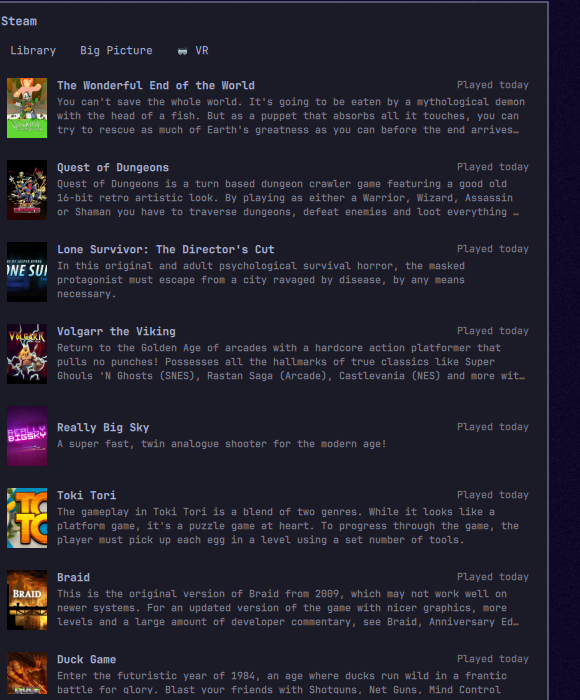
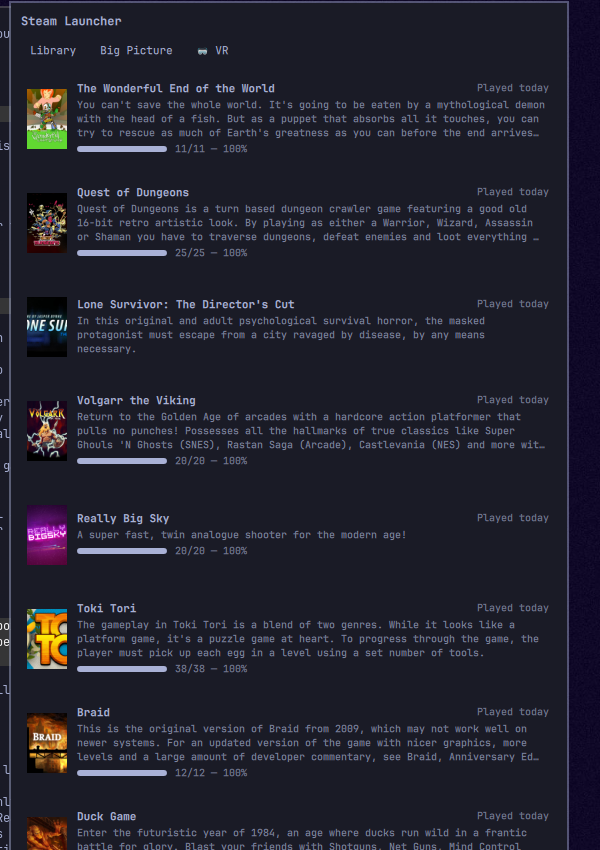
Add achievement progress, rename popup title to Steam Launcher
Achievement counts/percentage are read from Steam's own local binary
stat cache (appcache/stats/UserGameStats*.bin + UserGameStatsSchema*.bin),
not the Web API -- no API key or public-profile requirement. New
dependency-free scripts/steam-achievements.py decodes the undocumented
binary KeyValues format and intersects unlock timestamps against each
group's *current* schema bit ids, since a game's achievement list can
shrink over time while old unlock records for removed ids linger (hit
this for real on Aqua Kitty, appid 263880).

Also fixes a redundant full-Repeater-rerender bug this introduced during
testing: batching all achievement updates into one steamGames
reassignment instead of one setSteamGameField call per field per game.

Changed region(s): [[0.0, 0.0, 0.9621, 1.0]]

diff --git a/BarWidget.qml b/BarWidget.qml
@@ -198,6 +198,9 @@ BarWidget {
         lastPlayed: 0,
         description: "",
         descriptionLoaded: false,
+        achievementsUnlocked: 0,
+        achievementsTotal: 0,
+        achievementsLoaded: false,
         boxArt: "https://cdn.akamai.steamstatic.com/steam/apps/" + appid + "/library_600x900.jpg",
         boxArtFallback: "https://cdn.akamai.steamstatic.com/steam/apps/" + appid + "/header.jpg"
       })
@@ -239,6 +242,53 @@ BarWidget {
     root.steamGamesLoading = false
     root.steamGamesLoaded = true
     for (var g = 0; g < games.length; g++) fetchSteamDescription(games[g].appid)
+    loadSteamAchievements()
+  }
+
+  function loadSteamAchievements() {
+    steamAchievementsProc.command = ["python3", Quickshell.env("HOME") + "/.config/omarchy/plugins/io.github.alanone.steam-launcher/scripts/steam-achievements.py"]
+    steamAchievementsProc.running = true
+  }
+
+  // One combined local read (Steam's own binary achievement-stat cache, no
+  // network) rather than one process per game -- unlike descriptions, this
+  // has no reason to be cached across popup opens: it's already as cheap as
+  // the games-list/last-played rescans that already happen on every open.
+  // Games with no line in the output (no local stats file yet, or zero
+  // ACHIEVEMENTS-type stats) are left with achievementsLoaded=false, which
+  // the popup reads as "don't show a progress bar for this one".
+  function onSteamAchievementsListed(raw) {
+    // One reassignment of root.steamGames for the whole batch, not one per
+    // field per game via setSteamGameField -- steamGames is a plain JS
+    // array, so each reassignment recreates every Repeater delegate (all
+    // box art Images included). Looping setSteamGameField 3x per game here
+    // caused dozens of full re-renders in a row, visible as the same box
+    // art URL being re-fetched over and over in the log.
+    var byAppid = {}
+    var lines = String(raw || "").split("\n")
+    for (var i = 0; i < lines.length; i++) {
+      var line = lines[i]
+      if (!line) continue
+      var parts = line.split("\t")
+      if (parts.length !== 3) continue
+      var appid = parts[0].trim()
+      var unlocked = parseInt(parts[1], 10)
+      var total = parseInt(parts[2], 10)
+      if (!appid || isNaN(unlocked) || isNaN(total) || total <= 0) continue
+      byAppid[appid] = { unlocked: unlocked, total: total }
+    }
+    if (Object.keys(byAppid).length === 0) return
+
+    var games = root.steamGames.map(function(g) {
+      var entry = byAppid[g.appid]
+      if (!entry) return g
+      var copy = Object.assign({}, g)
+      copy.achievementsUnlocked = entry.unlocked
+      copy.achievementsTotal = entry.total
+      copy.achievementsLoaded = true
+      return copy
+    })
+    root.steamGames = games
   }
 
   function relativeLastPlayed(epoch) {
@@ -392,6 +442,14 @@ BarWidget {
     stdout: StdioCollector {
       waitForEnd: true
       onStreamFinished: root.onSteamLastPlayedListed(text)
+    }
+  }
+
+  Process {
+    id: steamAchievementsProc
+    stdout: StdioCollector {
+      waitForEnd: true
+      onStreamFinished: root.onSteamAchievementsListed(text)
     }
   }
 
@@ -700,7 +758,12 @@ BarWidget {
     // computed from the header items' own implicitHeight and the row/spacing
     // constants the delegate below already uses, rather than a flat magic
     // pixel number, so this stays correct if those constants ever change.
-    readonly property int steamRowHeight: Style.space(72)
+    // Bumped from 72 to fit an achievement progress bar + label under the
+    // description on games that have one; games without achievement data
+    // just leave that space empty rather than shrinking the row per-item
+    // (a uniform row height keeps the "8 visible rows" math simple and
+    // correct without per-row variable sizing).
+    readonly property int steamRowHeight: Style.space(94)
     readonly property int steamVisibleRows: 8
     readonly property int steamHeaderHeight: steamTitleText.implicitHeight + steamLauncherColumn.spacing + steamButtonsRow.implicitHeight
     readonly property int steamListCapHeight: steamHeaderHeight + steamLauncherColumn.spacing
@@ -729,7 +792,7 @@ BarWidget {
 
         Text {
           id: steamTitleText
-          text: "Steam"
+          text: "Steam Launcher"
           color: root.foreground
           font.family: root.fontFamily
           font.pixelSize: Style.font.body
@@ -799,7 +862,7 @@ BarWidget {
             id: gameRow
             required property var modelData
             width: steamLauncherColumn.width
-            implicitHeight: Style.space(72)
+            implicitHeight: steamLauncherPopup.steamRowHeight
 
             Rectangle {
               anchors.fill: parent
@@ -904,6 +967,52 @@ BarWidget {
                 wrapMode: Text.WordWrap
                 maximumLineCount: 3
                 elide: Text.ElideRight
+              }
+
+              // Steam's own local achievement-stat cache, not the Web API --
+              // see scripts/steam-achievements.py. Omitted (not a 0/0 bar)
+              // for a game Steam hasn't fetched stats for yet, or one with
+              // no ACHIEVEMENTS-type stats at all.
+              Item {
+                id: achievementRow
+                visible: gameRow.modelData.achievementsLoaded
+                width: parent.width
+                implicitHeight: Style.space(14)
+
+                readonly property real fraction: gameRow.modelData.achievementsTotal > 0
+                  ? gameRow.modelData.achievementsUnlocked / gameRow.modelData.achievementsTotal
+                  : 0
+
+                Rectangle {
+                  id: achievementTrack
+                  anchors.left: parent.left
+                  anchors.verticalCenter: parent.verticalCenter
+                  width: Style.space(90)
+                  height: Style.space(6)
+                  radius: height / 2
+                  color: Qt.rgba(root.foreground.r, root.foreground.g, root.foreground.b, 0.18)
+
+                  Rectangle {
+                    anchors.left: parent.left
+                    anchors.top: parent.top
+                    anchors.bottom: parent.bottom
+                    radius: parent.radius
+                    color: root.foreground
+                    width: Math.max(height, achievementTrack.width * achievementRow.fraction)
+                  }
+                }
+
+                Text {
+                  textFormat: Text.PlainText
+                  anchors.left: achievementTrack.right
+                  anchors.leftMargin: Style.space(8)
+                  anchors.verticalCenter: parent.verticalCenter
+                  text: gameRow.modelData.achievementsUnlocked + "/" + gameRow.modelData.achievementsTotal
+                    + " — " + Math.round(achievementRow.fraction * 100) + "%"
+                  color: Qt.darker(root.foreground, 1.4)
+                  font.family: root.fontFamily
+                  font.pixelSize: Style.font.caption
+                }
               }
             }
 

diff --git a/scripts/steam-achievements.py b/scripts/steam-achievements.py
@@ -1,0 +1,151 @@
+#!/usr/bin/env python3
+"""Print "appid<TAB>unlocked<TAB>total" for every locally installed game that
+has achievement data cached, by reading Steam's own local binary stat cache
+(~/.local/share/Steam/appcache/stats/UserGameStatsSchema_<appid>.bin for the
+achievement definitions, UserGameStats_<accountid>_<appid>.bin for this
+user's unlock state). Undocumented binary KeyValues format, decoded below.
+
+A game with no UserGameStats_* file yet (Steam only writes one after you've
+actually viewed that game's achievements or played it) or with zero
+ACHIEVEMENTS-type stats is simply omitted -- not printed as 0/0.
+"""
+import glob
+import os
+import struct
+import sys
+
+TYPE_OBJECT = 0x00
+TYPE_STRING = 0x01
+TYPE_INT32 = 0x02
+TYPE_FLOAT32 = 0x03
+TYPE_PTR = 0x04
+TYPE_WSTRING = 0x05
+TYPE_COLOR = 0x06
+TYPE_UINT64 = 0x07
+TYPE_END = 0x08
+TYPE_INT64 = 0x0B
+
+
+def read_cstr(buf, pos):
+    end = buf.index(b"\x00", pos)
+    return buf[pos:end].decode("utf-8", errors="replace"), end + 1
+
+
+def parse_object(buf, pos):
+    obj = {}
+    while True:
+        t = buf[pos]
+        pos += 1
+        if t == TYPE_END:
+            return obj, pos
+        key, pos = read_cstr(buf, pos)
+        if t == TYPE_OBJECT:
+            val, pos = parse_object(buf, pos)
+        elif t in (TYPE_STRING, TYPE_WSTRING):
+            val, pos = read_cstr(buf, pos)
+        elif t in (TYPE_INT32, TYPE_COLOR, TYPE_PTR):
+            val = struct.unpack_from("<i", buf, pos)[0]
+            pos += 4
+        elif t == TYPE_FLOAT32:
+            val = struct.unpack_from("<f", buf, pos)[0]
+            pos += 4
+        elif t in (TYPE_UINT64, TYPE_INT64):
+            val = struct.unpack_from("<q", buf, pos)[0]
+            pos += 8
+        else:
+            raise ValueError(f"unknown binary VDF type 0x{t:02x}")
+        obj[key] = val
+
+
+def parse_binary_vdf(path):
+    with open(path, "rb") as f:
+        buf = f.read()
+    pos = 0
+    t = buf[pos]
+    pos += 1
+    if t != TYPE_OBJECT:
+        raise ValueError("not a binary VDF root object")
+    _root_key, pos = read_cstr(buf, pos)
+    obj, _pos = parse_object(buf, pos)
+    return obj
+
+
+def local_accountid():
+    pattern = os.path.expanduser("~/.local/share/Steam/userdata/*/config/localconfig.vdf")
+    files = glob.glob(pattern)
+    if not files:
+        return None
+    newest = max(files, key=os.path.getmtime)
+    # .../userdata/<accountid>/config/localconfig.vdf
+    return os.path.basename(os.path.dirname(os.path.dirname(newest)))
+
+
+def achievement_group_bit_ids(schema):
+    """Stat group ids (schema's own keys, e.g. "1", "2") whose type is
+    ACHIEVEMENTS, each mapped to the set of its *current* bit ids."""
+    stats = schema.get("stats", {})
+    groups = {}
+    if not isinstance(stats, dict):
+        return groups
+    for gid, group in stats.items():
+        if not isinstance(group, dict):
+            continue
+        if str(group.get("type", "")).upper() != "ACHIEVEMENTS":
+            continue
+        bits = group.get("bits", {})
+        groups[gid] = set(bits.keys()) if isinstance(bits, dict) else set()
+    return groups
+
+
+def unlocked_count(user_stats, group_bit_ids):
+    # A developer can remove/rename achievements over time, but a user's old
+    # unlock timestamp for a since-removed bit id lingers in their local
+    # stats file -- confirmed on a real game this session (Aqua Kitty,
+    # appid 263880: schema currently has 2 bits in one group, but the user
+    # file still carries 4 old timestamps there, 2 for ids no longer in the
+    # schema). Intersecting against the *current* bit ids is what keeps
+    # unlocked <= total; a raw len() of AchievementTimes can overcount.
+    unlocked = 0
+    for gid, bit_ids in group_bit_ids.items():
+        group = user_stats.get(gid)
+        if not isinstance(group, dict):
+            continue
+        times = group.get("AchievementTimes", {})
+        if isinstance(times, dict):
+            unlocked += len(bit_ids.intersection(times.keys()))
+    return unlocked
+
+
+def main():
+    accountid = local_accountid()
+    if not accountid:
+        return
+
+    stats_dir = os.path.expanduser("~/.local/share/Steam/appcache/stats")
+    for schema_path in glob.glob(os.path.join(stats_dir, "UserGameStatsSchema_*.bin")):
+        appid = os.path.basename(schema_path)[len("UserGameStatsSchema_"):-len(".bin")]
+        user_path = os.path.join(stats_dir, f"UserGameStats_{accountid}_{appid}.bin")
+        if not os.path.isfile(user_path):
+            continue  # Steam hasn't fetched this user's stats for this game yet.
+
+        try:
+            schema_root = parse_binary_vdf(schema_path)
+        except Exception:
+            continue
+
+        group_bit_ids = achievement_group_bit_ids(schema_root)
+        total = sum(len(ids) for ids in group_bit_ids.values())
+        if total <= 0:
+            continue
+
+        try:
+            user_stats = parse_binary_vdf(user_path)
+        except Exception:
+            continue
+
+        unlocked = unlocked_count(user_stats, group_bit_ids)
+        print(f"{appid}\t{unlocked}\t{total}")
+
+
+if __name__ == "__main__":
+    main()

diff --git a/README.md b/README.md
@@ -1,9 +1,9 @@
 # Steam Launcher
 
 A Steam icon for the Omarchy bar that only shows up while Steam is running. Left-click it
-for a quick-launcher popup listing your installed games — box art, a short blurb, sorted by
-last-played — and launch one with a single click. Right-click still gives you Steam's own
-native context menu (Store, Library, Friends, Settings, Exit) as a fallback.
+for a quick-launcher popup listing your installed games — box art, a short blurb, achievement
+progress, sorted by last-played — and launch one with a single click. Right-click still gives
+you Steam's own native context menu (Store, Library, Friends, Settings, Exit) as a fallback.
 
 ![Steam Launcher popup](preview.png)
 
@@ -30,6 +30,14 @@ This plugin gives left-click something worth doing instead: a real launcher.
 - **Descriptions** come from Steam's free, keyless `store.steampowered.com/api/appdetails`
   endpoint, one request per game, cached locally for 30 days (`cache/steam-descriptions.json`)
   so it doesn't re-fetch on every popup open or shell restart.
+- **Achievement progress** ("5/10 — 50%" + a bar) is read from Steam's own local binary
+  stat cache (`~/.local/share/Steam/appcache/stats/UserGameStats*.bin`) — an undocumented but
+  fully local, keyless format, decoded by a small dependency-free parser in
+  [`scripts/steam-achievements.py`](scripts/steam-achievements.py). No Steam Web API key or
+  public-profile requirement, unlike the official achievements API. A game only shows a bar
+  once Steam has actually cached stats for it locally (typically after you've viewed its
+  achievements page or played it at least once) — nothing shows for a game with no local
+  stats yet, or one with no achievements at all, rather than a misleading 0/0.
 - **Launching** a game shells out to `xdg-open steam://rungameid/<appid>` — the same URI
   scheme Steam's own browser integration uses, so it just asks your already-running Steam
   client to launch it.
@@ -57,8 +65,8 @@ the source:
   standard Steam-for-Linux install — this is how Steam registers itself with `xdg-open`).
 - **`curl`** — used for the description fetch. Present by default on virtually every Linux
   install, including Omarchy.
-- **`python3`** — used only for the local last-played VDF parse. Present by default on
-  Omarchy.
+- **`python3`** — used for the local last-played and achievement VDF parsing. Present by
+  default on Omarchy.
 
 ## Install
 
@@ -96,13 +104,14 @@ omarchy plugin remove io.github.alanone.steam-launcher
 ## Security
 
 - Runs three external processes: `xdg-open` (to hand `steam://` URIs to Steam), `curl` (to
-  fetch a game's public store description), and `python3` (to parse your local last-played
-  file). Nothing else.
+  fetch a game's public store description), and `python3` (to parse local Steam files — last
+  played time and achievement stats). Nothing else.
 - The only network calls are to Steam's own CDN (box art) and store API (descriptions) —
   both public, keyless, read-only endpoints. No credentials are used or stored anywhere.
-- Reads two local files that are entirely yours already (`appmanifest_*.acf`,
-  `localconfig.vdf`) — nothing here is sent anywhere, they're only used to build the local
-  games list and sort order.
+- Reads local files that are entirely yours already (`appmanifest_*.acf`, `localconfig.vdf`,
+  and the local achievement stat cache under `appcache/stats/`) — nothing here is sent
+  anywhere, they're only used to build the local games list, sort order, and achievement
+  progress.
 
 ## Troubleshooting
 
@@ -115,6 +124,10 @@ omarchy plugin remove io.github.alanone.steam-launcher
 - **Box art missing for one game**: not every game has a `library_600x900.jpg` on Steam's
   CDN — this plugin falls back to `header.jpg` automatically; if neither exists for a given
   game, the slot stays blank rather than showing a broken-image icon.
+- **No achievement bar for a game that has achievements**: Steam only writes its local stat
+  cache for a game after you've opened that game's achievements page or played it at least
+  once in the client — a freshly installed, never-touched game won't have one yet. Play it
+  or check its achievements in Steam once, then reopen the popup.
 - **Bar icon doesn't theme correctly after an update**: run
   `omarchy-shell shell rescanPlugins`; if that doesn't pick up a change, a full
   `omarchy restart shell` will.
